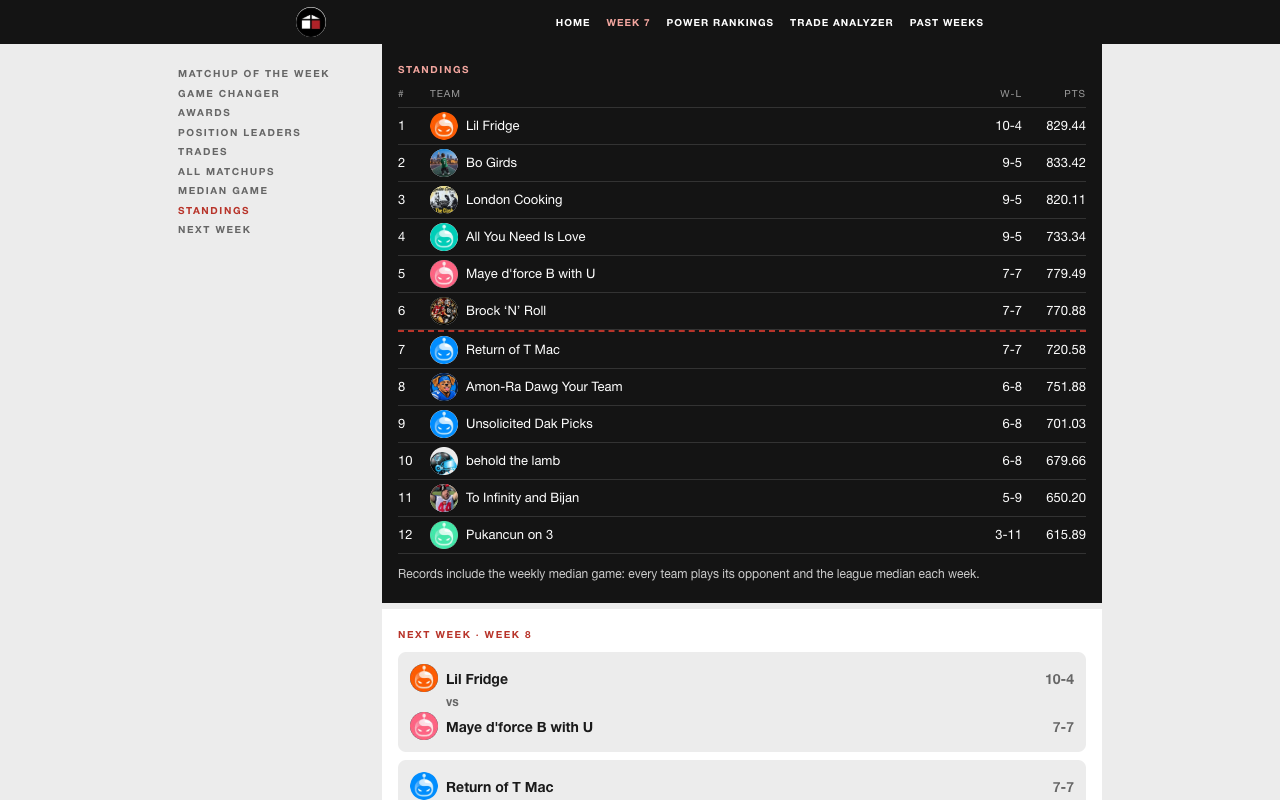
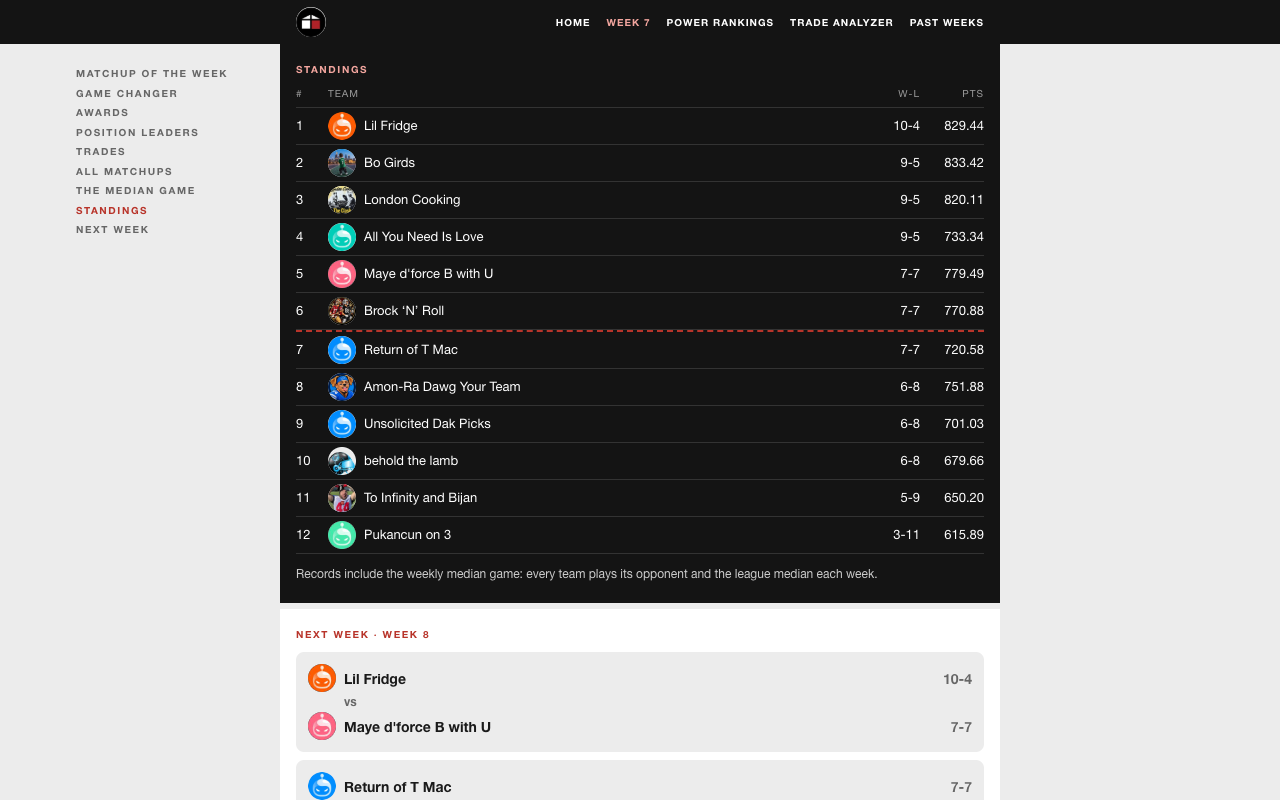
Keep the page column centered and put the rail in its margin
The two-track grid moved the column 102px right of the masthead and
the compact bar. A three-track grid keeps the column in the middle
track, and the rail sits in the left margin track. The rail shows from
a rail tier at 1152px, where the margin holds the rail plus the gap.
The median label takes the chapter's own words, "The Median Game".

diff --git a/src/app/[season]/[week]/page.tsx b/src/app/[season]/[week]/page.tsx
@@ -49,7 +49,7 @@ export default async function WeekPage({ params }: Props) {
     ...(page.leaders.length > 0 ? [{ id: "leaders", label: "Position Leaders" }] : []),
     { id: "trades", label: "Trades" },
     { id: "matchups", label: "All Matchups" },
-    { id: "median", label: "Median Game" },
+    { id: "median", label: "The Median Game" },
     { id: "standings", label: "Standings" },
     { id: "next-week", label: "Next Week" },
   ];
@@ -62,11 +62,11 @@ export default async function WeekPage({ params }: Props) {
           {`${page.dates} · Published ${page.publish_date}`}
         </div>
       </Masthead>
-      {/* From the desktop tier the rail and the page column form one centered grid, the rail left of the column.
-          Under it the grid is one column, the rail is hidden, and the column centers as before. */}
-      <div className="desktop:grid desktop:grid-cols-[var(--spacing-rail)_var(--container-page)] desktop:justify-center desktop:gap-x-rail-gap">
+      {/* From the tablet tier a three-track grid keeps the page column in the middle track, so it lines up with the masthead
+          and the compact bar. The rail sits in the left margin track. On a phone the column fills the width, so no grid. */}
+      <div className="tablet:grid tablet:grid-cols-[minmax(0,1fr)_var(--container-page)_minmax(0,1fr)]">
         <ChapterRail chapters={chapters} />
-        <main className="mx-auto max-w-page bg-wht">
+        <main className="mx-auto max-w-page bg-wht tablet:col-start-2">
           {/* The masthead and the top story show at once. The hero plays its own motion on load.
               Each chapter below reveals once as it enters the view, as a unit or card by card. */}
           <MatchupOfTheWeek pick={page.pick} avatars={page.avatars} blurb={page.blurbs.motw} />

diff --git a/src/components/week/chapter-rail.tsx b/src/components/week/chapter-rail.tsx
@@ -54,9 +54,12 @@ export function ChapterRail({ chapters }: { chapters: RailChapter[] }) {
   }, [chapters]);
 
   return (
-    // The rail renders at every tier, so the static HTML is the same for each. The tier variant shows it from the desktop tier.
-    // Sticky under the compact bar, so the rail stays at hand as the reader scrolls.
-    <nav aria-label="Chapters" className="sticky top-touch hidden self-start py-sp-5 desktop:block">
+    // The rail renders at every tier, so the static HTML is the same for each. The rail variant shows it once the margin holds it.
+    // It sits at the end of the left margin track with the gap before the column. Sticky under the compact bar, so it stays at hand.
+    <nav
+      aria-label="Chapters"
+      className="sticky top-touch col-start-1 row-start-1 mr-rail-gap hidden w-rail self-start justify-self-end py-sp-5 rail:block"
+    >
       <ul className="m-0 list-none p-0">
         {chapters.map(({ id, label }) => (
           <li key={id}>

diff --git a/src/app/[season]/[week]/page.test.tsx b/src/app/[season]/[week]/page.test.tsx
@@ -14,7 +14,7 @@ const CHAPTERS = [
   { id: "leaders", label: "Position Leaders" },
   { id: "trades", label: "Trades" },
   { id: "matchups", label: "All Matchups" },
-  { id: "median", label: "Median Game" },
+  { id: "median", label: "The Median Game" },
   { id: "standings", label: "Standings" },
   { id: "next-week", label: "Next Week" },
 ];
@@ -165,7 +165,7 @@ describe("WeekPage chapter in view", () => {
     await renderWeek7();
     reportChapter("median", true);
     reportChapter("standings", true);
-    expect(currentLabels()).toEqual(["Median Game"]);
+    expect(currentLabels()).toEqual(["The Median Game"]);
     reportChapter("median", false);
     expect(currentLabels()).toEqual(["Standings"]);
   });

diff --git a/src/app/globals.css b/src/app/globals.css
@@ -107,6 +107,9 @@
     --breakpoint-phone: 0rem;
     --breakpoint-tablet: 40rem;
     --breakpoint-desktop: 64rem;
+    /* The chapter rail sits in the margin left of the page column, so the margin must hold the rail plus the gap on each side:
+       720 + 2 × (180 + 24) = 1128px. 72rem is 1152px, the first round value past it. Under it the rail is hidden. */
+    --breakpoint-rail: 72rem;
 
     /* The page column per tier. A phone column fills the viewport and the content keeps the gutter inside it.
        The desktop width is the content measure; a wider tier adds space beside the column, not inside it. */

diff --git a/.scratch/site-report/PRD.md b/.scratch/site-report/PRD.md
@@ -108,12 +108,12 @@ with a week footer that links the prior and the next week. The phone keeps the r
 
 ### The chapter rail
 
-- A client island rendered by the week page on every tier and shown from the desktop tier by the tier variant. It takes the list of chapters, each with an id and a label, from the page at build time. The chapter ids are the ones the chapter parts already set.
+- A client island rendered by the week page on every tier and shown from the rail tier by the tier variant. The rail tier is 1152px, where the margin beside the 720px column holds the rail plus the gap: 720 + 2 × (180 + 24) = 1128. It takes the list of chapters, each with an id and a label, from the page at build time. The chapter ids are the ones the chapter parts already set.
 - The rail sits left of the page column, outside it, at a token width of about 180px, sticky under the compact bar. The column keeps its 720px measure.
 - The rail is a navigation landmark with a label. Each label is a plain anchor to the chapter id, in the report's label style, muted ink, the in-view chapter in red with the current state.
 - An observer on the chapters marks the one nearest the top of the viewport as in view. The mark is state in the island.
 - A tap scrolls to the chapter. With reduced motion the scroll is instant; otherwise the page's scroll behavior applies. The compact bar's scroll padding keeps the chapter's label clear of the bar.
-- Under the desktop tier the rail is hidden. The page's grid is one column there.
+- Under the rail tier the rail is hidden and the column stays centered. On a phone the page is one column.
 
 ### The week footer
 

diff --git a/.scratch/site-report/issues/05-chapter-rail.md b/.scratch/site-report/issues/05-chapter-rail.md
@@ -6,8 +6,8 @@
 
 **Status:** ready-for-agent
 
-- [ ] From 1024px the rail shows left of the page column, outside it, at a token width of about 180px, sticky under the compact bar. The column keeps its width.
-- [ ] Under 1024px the rail is hidden and the page is one column.
+- [ ] From the rail tier at 1152px the rail shows left of the page column, outside it, at a token width of about 180px, sticky under the compact bar. The column keeps its width.
+- [ ] Under the rail tier at 1152px the rail is hidden and the page is one column.
 - [ ] The rail is a navigation landmark with a label. It lists nine plain anchors in the report's order, each to a chapter id the chapter parts set.
 - [ ] An observer marks the chapter nearest the top of the viewport as in view: red, with the current state. The mark moves as the reader scrolls.
 - [ ] A tap scrolls to the chapter, clear of the compact bar. With reduced motion the jump is instant.
